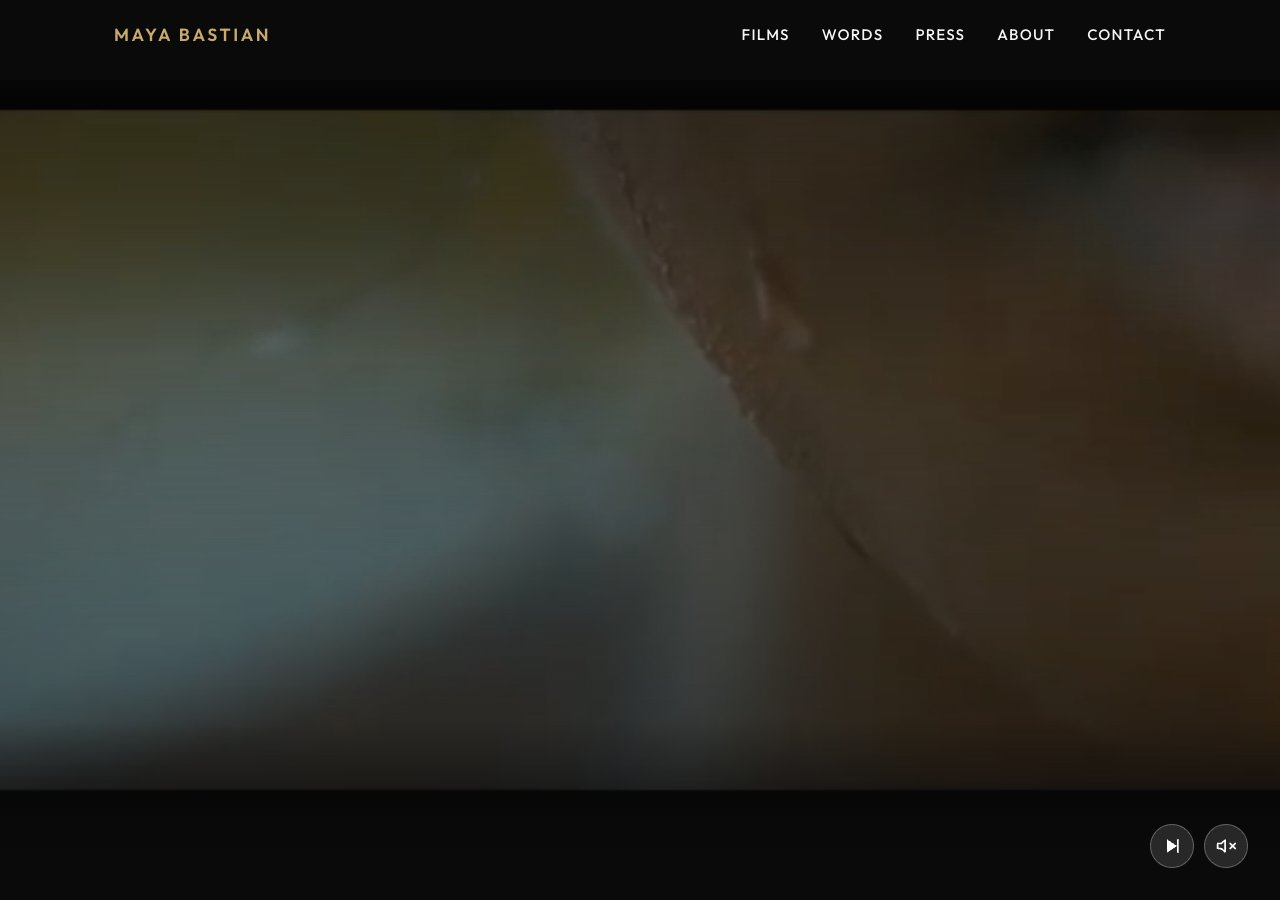
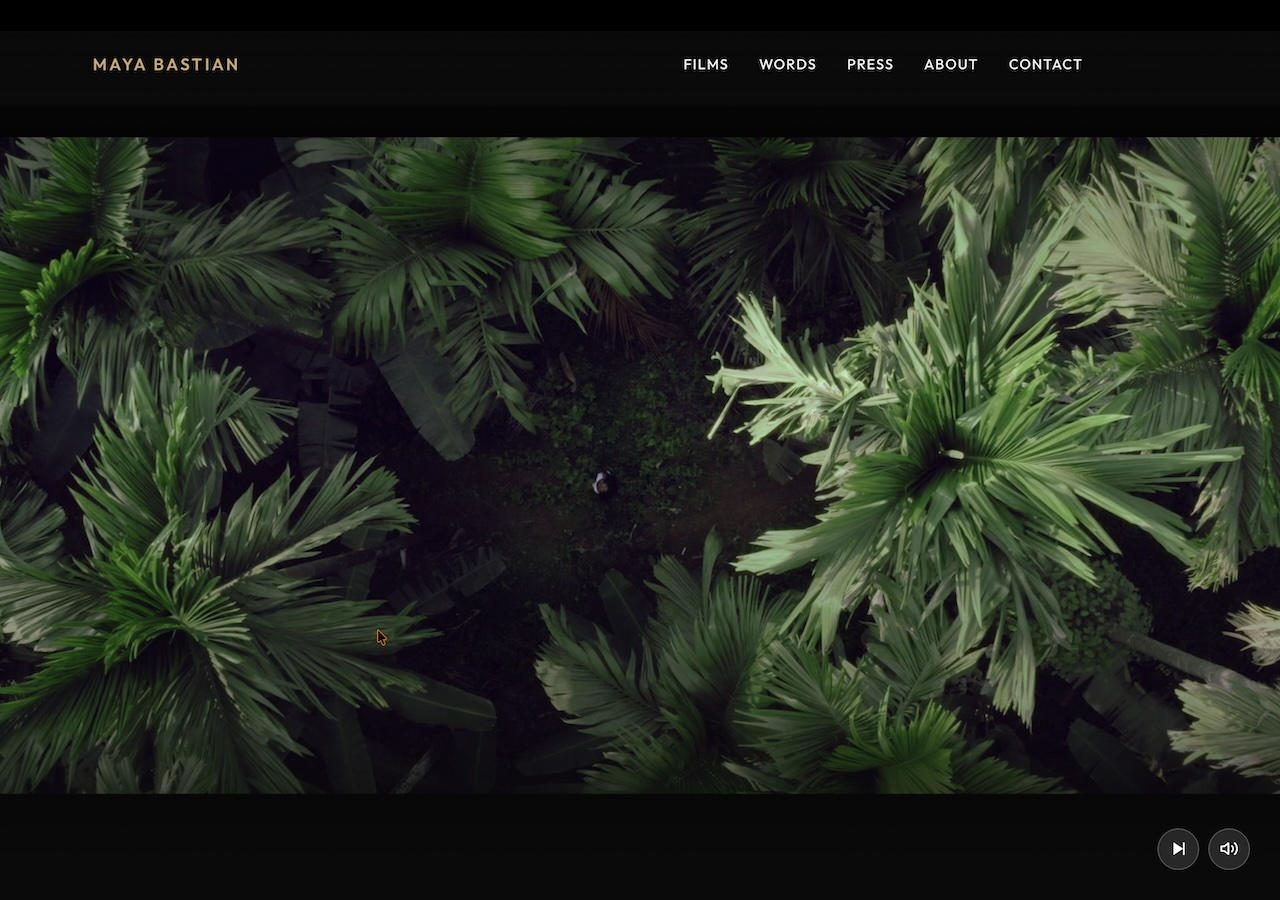
Update mayabastian.com screenshot (v1.0.4)

diff --git a/CHANGELOG.md b/CHANGELOG.md
@@ -1,5 +1,8 @@
 # Changelog
 
+## 1.0.4 - 2026-03-04
+- Update screenshot for mayabastian.com
+
 ## 1.0.3 - 2026-03-02
 - Fix broken thumbnails: remove screenshots/ from .gitignore so images deploy to GitHub Pages
 
